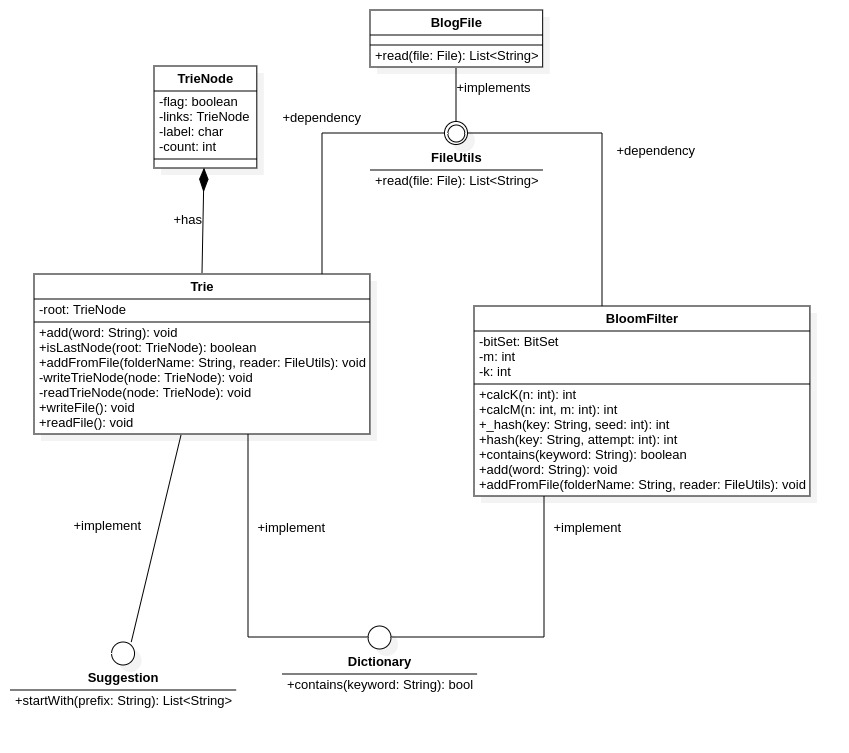
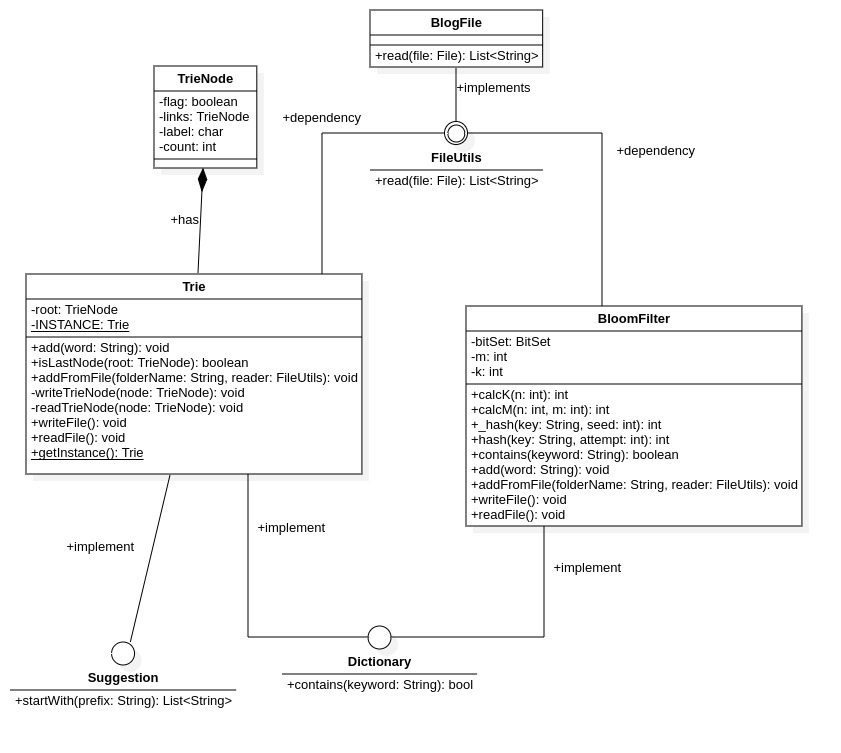
update

diff --git a/predictivetext/src/main/java/org/tranphucbol/predictivetext/BloomFilter.java b/predictivetext/src/main/java/org/tranphucbol/predictivetext/BloomFilter.java
@@ -1,7 +1,6 @@
 package org.tranphucbol.predictivetext;
 
-import java.io.File;
-import java.io.IOException;
+import java.io.*;
 import java.util.BitSet;
 import java.util.List;
 
@@ -14,15 +13,15 @@ public class BloomFilter implements Dictionary {
     public BloomFilter(int size) {
         this.m = calcM(size);
         this.k = calcK(this.m, size);
-        this.bitSet = new BitSet(size);
+        this.bitSet = new BitSet(m);
     }
 
     private int calcM(int n) {
-        return (int)Math.ceil((n * Math.log(0.0000001)) / Math.log(1 / Math.pow(2, Math.log(2))));
+        return (int) Math.ceil((n * Math.log(0.0000001)) / Math.log(1 / Math.pow(2, Math.log(2))));
     }
 
     private int calcK(int m, int n) {
-        return (int)Math.round(((double)m / n) * Math.log(2));
+        return (int) Math.round(((double) m / n) * Math.log(2));
     }
 
     private int _hash(String key, int a) {
@@ -32,16 +31,15 @@ public class BloomFilter implements Dictionary {
         int len = cKeys.length;
 
         for (int i = 0; i < len; i++) {
-            hash += Math.pow(a, len - (i+1)) * (0x000000FF & (int)cKeys[i]);
+            hash += Math.pow(a, len - (i + 1)) * (0x000000FF & (int) cKeys[i]);
             hash = hash % m;
         }
-
-        return (int)hash;
+        return (int) hash;
     }
 
     public boolean contains(String word) {
-        for(int i=0; i<k; i++) {
-            if(!bitSet.get(hash(word, i))) {
+        for (int i = 0; i < k; i++) {
+            if (!bitSet.get(hash(word, i))) {
                 return false;
             }
         }
@@ -49,13 +47,14 @@ public class BloomFilter implements Dictionary {
     }
 
     private int hash(String key, int attempt) {
-        int hash_a = _hash(key, 7);
-        int hash_b = _hash(key, 11);
-        return (hash_a + (attempt * (hash_b + 1))) % m;
+        long hash_a = _hash(key, 7);
+        long hash_b = _hash(key, 11);
+
+        return (int)((hash_a + (attempt * (hash_b + 1))) % m);
     }
 
     public void add(String word) {
-        for(int i=0; i<k; i++) {
+        for (int i = 0; i < k; i++) {
             bitSet.set(hash(word, i), true);
         }
     }
@@ -73,5 +72,27 @@ public class BloomFilter implements Dictionary {
                 e.printStackTrace();
             }
         }
+    }
+
+    public void readFile() throws IOException {
+        DataInputStream in = new DataInputStream((new FileInputStream("BloomFilter")));
+        k = in.readInt();
+        m = in.readInt();
+        bitSet = new BitSet(m);
+        for(int i = 0; i<m; i++) {
+            bitSet.set(i, in.readBoolean());
+        }
+        in.close();
+    }
+
+    public void writeFile() throws IOException {
+        DataOutputStream out = new DataOutputStream(new
+                FileOutputStream("BloomFilter"));
+        out.writeInt(k);
+        out.writeInt(m);
+        for (int i = 0; i < m; i++) {
+            out.writeBoolean(bitSet.get(i));
+        }
+        out.close();
     }
 }

diff --git a/predictivetext/src/main/java/org/tranphucbol/predictivetext/Trie.java b/predictivetext/src/main/java/org/tranphucbol/predictivetext/Trie.java
@@ -12,16 +12,41 @@ public class Trie implements Dictionary, Suggestion {
     private TrieNode root;
 
     private static final Logger logger = LoggerFactory.getLogger(Trie.class);
+    private static Trie INSTANCE = null;
 
-    public Trie() {
+    private Trie() {
         root = new TrieNode();
         root.label = '#';
     }
 
-    public Trie(String folderName, FileUtils reader) {
+    private Trie(String folderName, FileUtils reader) {
         root = new TrieNode();
         root.label = '#';
         this.addFromFile(folderName, reader);
+    }
+
+    public static Trie getInstance(String folderName, FileUtils reader) {
+        if(INSTANCE == null) {
+            synchronized (Trie.class) {
+                if(INSTANCE == null) {
+                    INSTANCE = new Trie(folderName, reader);
+                }
+            }
+        }
+
+        return INSTANCE;
+    }
+
+    public static Trie getInstance() {
+        if(INSTANCE == null) {
+            synchronized (Trie.class) {
+                if(INSTANCE == null) {
+                    INSTANCE = new Trie();
+                }
+            }
+        }
+
+        return INSTANCE;
     }
 
     public void add(String word) {

diff --git a/predictivetext/src/test/java/Benchmark.java b/predictivetext/src/test/java/Benchmark.java
@@ -27,11 +27,10 @@ public class Benchmark {
 
     @BeforeClass
     public void init() throws IOException {
-        String folderName = "/home/cpu11413/Documents/blogs";
-        bloomFilter = new BloomFilter(1000000);
-        bloomFilter.addFromFile(folderName, reader);
+        bloomFilter = new BloomFilter(5000000);
+        bloomFilter.readFile();
 
-        trie = new Trie(folderName, reader);
+        trie = Trie.read();
     }
 
     @Test(dataProvider = "testCase")

diff --git a/predictivetext/src/main/java/org/tranphucbol/predictivetext/Main.java b/predictivetext/src/main/java/org/tranphucbol/predictivetext/Main.java
@@ -1,8 +1,12 @@
 package org.tranphucbol.predictivetext;
 
+import java.io.IOException;
+
 public class Main {
-    public static void main(String[] args) {
-        new DictionaryUI();
+    public static void main(String[] args) throws IOException {
+//        new DictionaryUI();
+        BloomFilter bloomFilter = new BloomFilter(5000000);
+        bloomFilter.readFile();
     }
 
 
